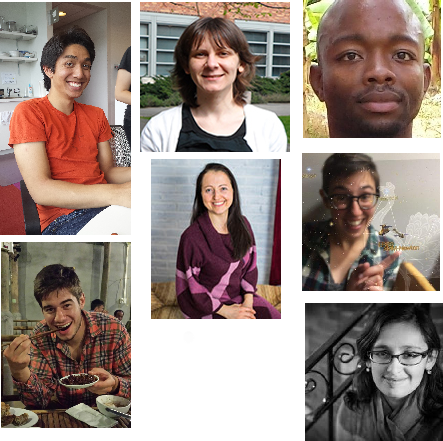
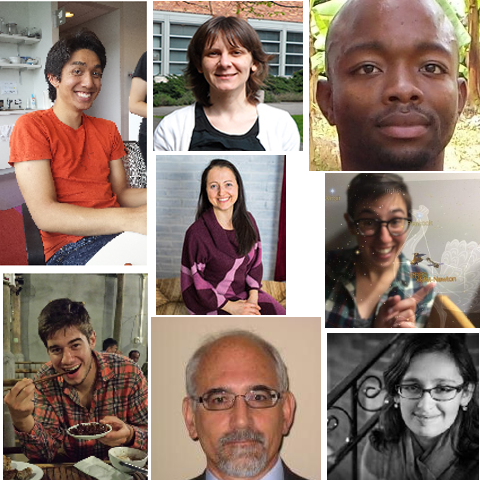
updated About Us post and collage to include Joe's info

diff --git a/_posts/2015-07-17-About-Us.md b/_posts/2015-07-17-About-Us.md
@@ -1,38 +1,42 @@
 ---
 layout: post
-
 title:  "Team Member Intros"
 date:   2015-07-17
 author: "Paratransit Team"
-
 ---
 
 <img src= "/blog/images/paratransit-collage.png" alt="collage" style="padding-right: 10px; padding-bottom: 10px" align="middle">
 
 <!--more-->
 
-
-
 <img src= "/blog/images/anat.jpg" alt="Anat" style="height:250px; padding-right: 10px; padding-bottom: 10px" align="left">
 
 ### Team lead: Dr. Anat Caspi
 
-
-Anat Caspi is Director of The Taskar Center for Accessible Technology (TCAT). This initiative housed by the Department of Computer Science and Engineering at the University of Washington is focused on translating novel research and technologies for use by populations with disabilities. TCAT also plays a role in continuing the department's well-established engagement with access technologies and in applying universal design practices across a vast array of projects.
+Anat is Director of The Taskar Center for Accessible Technology (TCAT). This initiative housed by the Department of Computer Science and Engineering at the University of Washington is focused on translating novel research and technologies for use by populations with disabilities. TCAT also plays a role in continuing the department's well-established engagement with access technologies and in applying universal design practices across a vast array of projects.
 You can find more information about Anat on her [TCAT bio page](http://tcat.cs.washington.edu/node/12).
 
 &nbsp;
 
 &nbsp;
 
+### Team data scientists: 
 
-
-
-### Team data scientist: Valentina Staneva
+Valentina Staneva
 
 <img src= "/blog/images/Valentina.jpg" alt="Valentina" style="height:200px; padding-left: 10px; padding-bottom: 10px;" align="right">
 
-Valentina Staneva started as a data scientist at the eScience Institute in March, 2015. Prior to joining University of Washington, she was a PhD student at the Applied Mathematics & Statistics Department at Johns Hopkins University. Her research was with the Center for Imaging Science and was devoted to developing methods for tracking deforming objects in videos and statistical estimation of their dynamics. Valentina has a Bachelors degree in Mathematics from Concord University, and between her graduate and graduate studies she spent 1.5 years working at Los Alamos National Laboratory on problems in imaging, optimization and compressed sensing. She has broad interests in extracting information from different types of data, and building tools for it.
+Valentina started as a data scientist at the eScience Institute in March, 2015. Prior to joining University of Washington, she was a PhD student at the Applied Mathematics & Statistics Department at Johns Hopkins University. Her research was with the Center for Imaging Science and was devoted to developing methods for tracking deforming objects in videos and statistical estimation of their dynamics. Valentina has a Bachelors degree in Mathematics from Concord University, and between her graduate and graduate studies she spent 1.5 years working at Los Alamos National Laboratory on problems in imaging, optimization and compressed sensing. She has broad interests in extracting information from different types of data, and building tools for it.
+
+Joseph Hellerstein 
+
+<img src= "/blog/images/Joe_Hellerstein.jpg" alt="Joe" style="height:200px; padding-left: 10px; padding-bottom: 10px;" align="right">
+
+Joe is a Software Engineering Manager with Google Inc. in Seattle and a Senior Data Science Fellow with the UW eScience Institute.
+
+His major projects involve metagenomics, control theoretic approaches to gene networks, and large scale simulations of chemical and biological systems. He has developed and taught Molecular Biology for Computer Scientists, a course that provides computer scientists with the background to do data science in molecular biology.
+
+Dr. Hellerstein was previously a Principal Architect at Microsoft in Redmond, Washington and a Senior Manager at the IBM Thomas J. Watson Research Center in Hawthorne, New York. Dr. Hellerstein received the PhD in computer science from the University of California at Los Angeles. He has published approximately 200 peer-reviewed articles and two books, and has taught at Columbia University and the University of Washington. Dr. Hellerstein is a Fellow of the IEEE.    
 
 ### Team Members: 
 
@@ -40,10 +44,7 @@ Valentina Staneva started as a data scientist at the eScience Institute in March
 
 #### Rohan Aras
 
-
-
 I'm an incoming senior at the UW studying Informatics (with the data science option); Community, Environment, and Planning; and Math. These major choices reflect two things: my enjoyment in playing around, analyzing, and visualizing data, as well as Urban Planning. Needless to say, I am pretty interested in this Urban Science thing. I've done some amount of 'big data' transit research in the past: see [here](https://github.com/rohanaras/BBT_team) and [here](http://students.washington.edu/rohana/bbt/). This paratransit project has been very interesting in making me learn about a part of the transit system that I haven't really been aware of as an able-bodied person. In addition, it has been validating to be involved in something that will potentially have real impacts on our transit system.
-
 
 #### Kristen Garofali
 
@@ -57,12 +58,7 @@ Being involved with the Paratransit Group as a part of the Data Science for Soci
 
 <img src="/blog/images/kivan.jpg" alt = "Kivan" style="width:200px; padding-right: 10px; padding-bottom: 10px;" align="left">
 
-This summer, I'm enjoying working with our team and building a solution to improve King County's Access
-Paratransit Service. Our project has really pushed us to understand our data's 
-strengths and limitations and how we can best analyze routing and costs related to service.
-Our team and the broader eScience community have been great resources for learning
-approaches, software and workflows for tackling data-driven problems. 
-I'm a graduate student at UW with research interests in health development, residential mobility and urban demography.
+This summer, I'm enjoying working with our team and building a solution to improve King County's Access Paratransit Service. Our project has really pushed us to understand our data's strengths and limitations and how we can best analyze routing and costs related to service. Our team and the broader eScience community have been great resources for learning approaches, software and workflows for tackling data-driven problems. I'm a graduate student at UW with research interests in health development, residential mobility and urban demography.
 
 &nbsp;
 
